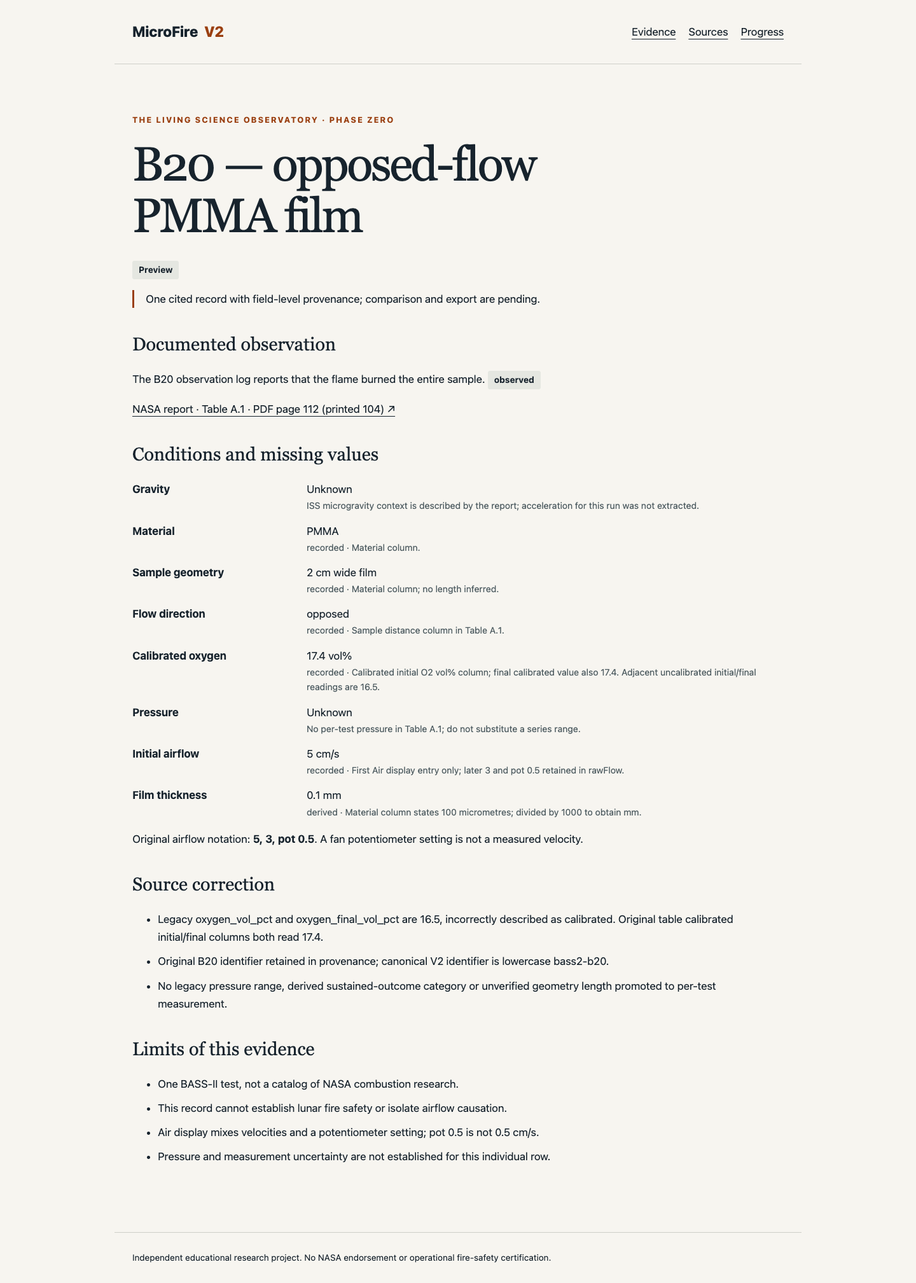
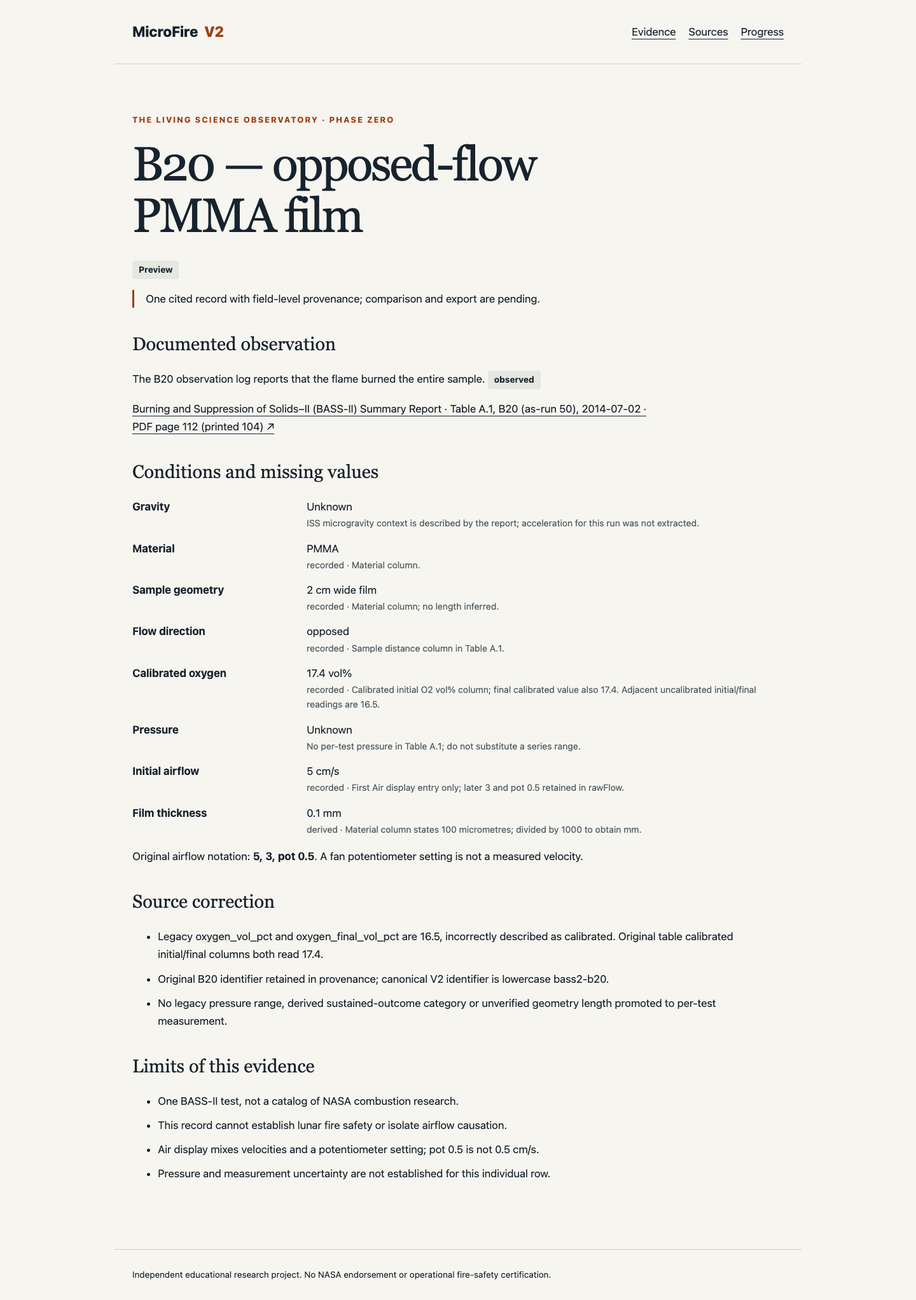
fix: review Phase Zero contracts and scientific boundaries

diff --git a/tests/e2e/foundation.spec.ts b/tests/e2e/foundation.spec.ts
@@ -14,7 +14,7 @@ test('offline source journey, keyboard access, corrected science and screenshots
   await page.getByRole('link', { name: 'B20 — opposed-flow PMMA film' }).click();
   await expect(page.getByRole('heading', { name: 'Documented observation' })).toBeVisible();
   await expect(page.getByText('17.4 vol%', { exact: false }).first()).toBeVisible();
-  await expect(page.getByRole('link', { name: /NASA report/ })).toHaveAttribute('href', /TM-20210011385.pdf#page=112$/);
+  await expect(page.getByRole('link', { name: /Table A\.1.*PDF page 112/ })).toHaveAttribute('href', /TM-20210011385.pdf#page=112$/);
   expect(await page.evaluate(() => document.documentElement.scrollWidth <= innerWidth)).toBe(true);
   await page.screenshot({ path: `docs/qa/screenshots/dossier-${info.project.name}.png`, fullPage: true });
   expect(errors).toEqual([]);
@@ -38,6 +38,14 @@ test('API contracts, errors and no-service fallback', async ({ request }) => {
   const ask = await request.post('/api/ask', { data: { question: 'Can this certify a lunar habitat?', targetConditions: {} } });
   expect(ask.status()).toBe(501);
   expect((await ask.json()).error.code).toBe('NOT_IMPLEMENTED');
+  expect((await request.post('/api/constructor', { data: {} })).status()).toBe(404);
+  const record = body.data.items[0];
+  const mismatchedPassport = { schemaVersion: 1, purpose: 'educational-research-record', entries: [{
+    id: 'mismatched-entry', missionId: 'station-arrival', experimentIds: [record.id], claimIds: [record.claims[0].id],
+    observationType: 'hypothesis', evidenceLevel: 'direct', conclusion: 'Learner note', citations: record.claims[0].citations,
+    limitations: record.limitations, corrections: [], setupRevision: null, status: 'current', scenario: 'research', createdAt: '2026-10-11T09:00:00Z'
+  }] };
+  expect((await request.post('/api/passport/validate', { data: mismatchedPassport })).status()).toBe(400);
   const passport = await request.post('/api/passport/validate', { data: { schemaVersion: 1, purpose: 'educational-research-record', entries: [] } });
   expect((await passport.json()).data.certification).toBe(false);
   expect(response.headers()['x-content-type-options']).toBe('nosniff');

diff --git a/tests/unit/contracts.test.ts b/tests/unit/contracts.test.ts
@@ -1,6 +1,6 @@
 import { describe, expect, it } from 'vitest';
 import { CatalogSchema, ClaimSchema, FeatureSchema, PassportSchema, features, resolveFeature, missionDefinitions, MissionIdSchema, PartIdSchema } from '@microfire/shared';
-import { catalog, validatePassport } from '@microfire/science';
+import { catalog, citationUrl, validatePassport } from '@microfire/science';
 import cells from '../../data/fixtures/b20-source-cells.json';
 
 const record = catalog.experiments[0]!;
@@ -45,6 +45,17 @@ describe('scientific trust boundaries', () => {
     expect(PassportSchema.safeParse({ ...passportExample, entries: [...passportExample.entries, ...passportExample.entries] }).success).toBe(false);
     expect(PassportSchema.safeParse({ ...passportExample, entries: [{ ...passportExample.entries[0], missionId: 'lunar-habitat', scenario: 'fictional-scenario' }] }).success).toBe(false);
   });
+  it('does not let an entry relabel the epistemic type of its supporting claim', () => {
+    const wrongType = structuredClone(passportExample);
+    wrongType.entries[0]!.observationType = 'hypothesis';
+    expect(() => validatePassport(wrongType)).toThrow('observation type');
+  });
+  it('resolves the catalog source and supplied PDF locator without inventing a URL', () => {
+    const source = catalog.sources[0]!;
+    expect(citationUrl(source.id)).toBe(source.url);
+    expect(citationUrl(source.id, 112)).toBe(`${source.documentUrl}#page=112`);
+    expect(() => citationUrl('invented-source', 112)).toThrow('Unknown source');
+  });
 });
 describe('feature gates and mission interfaces', () => {
   it('covers five distinct missions and ten stable parts', () => {
@@ -66,5 +77,8 @@ describe('feature gates and mission interfaces', () => {
     expect(resolveFeature(built, []).state).toBe('locked');
     expect(resolveFeature(built, ['station-arrival']).state).toBe('available');
     expect(resolveFeature(features.find((f) => f.state === 'blocked')!, []).state).toBe('blocked');
+  });
+  it('rejects an unimplemented feature labelled Preview', () => {
+    expect(FeatureSchema.safeParse({ ...features[0], state: 'preview', implemented: false }).success).toBe(false);
   });
 });

diff --git a/apps/web/components/foundation.tsx b/apps/web/components/foundation.tsx
@@ -21,7 +21,13 @@ export function Foundation({ path }: { path: string }) {
     {path === '/atlas' && <><p>{catalog.experiments.length} audited fixture. Dataset {catalog.datasetVersion}. Bundled locally; no provider key required.</p>{catalog.experiments.map((e) => <article key={e.id}><h2><Link href={`/experiments/${e.id}`}>{e.title}</Link></h2><p>{e.claims[0]?.text}</p><p>{e.limitations[0]}</p></article>)}</>}
     {experiment && <>
       <h2>Documented observation</h2>{experiment.claims.map((claim) => <p key={claim.id}>{claim.text} <span className="badge">{claim.kind}</span></p>)}
-      <a href={citationUrl(experiment.sourceIds[0]!, 112)}>NASA report · Table A.1 · PDF page 112 (printed 104) ↗</a>
+      {experiment.claims.flatMap((claim) => claim.citations).map((citation, index) => {
+        const source = catalog.sources.find((item) => item.id === citation.sourceId)!;
+        const locator = citation.locator;
+        return <p key={`${citation.sourceId}-${index}`}><a href={citationUrl(citation.sourceId, locator.kind === 'pdf' ? locator.page : undefined)}>
+          {source.title} · {locator.section}{locator.kind === 'pdf' && ` · PDF page ${locator.page} (printed ${locator.printedPage})`} ↗
+        </a></p>;
+      })}
       <h2>Conditions and missing values</h2><dl>{Object.entries(experiment.conditions).map(([name, field]) => <div key={name} style={{ display: 'contents' }}><dt>{conditionLabels[name]}</dt><dd>{field.status === 'known' ? <>{field.value} {'unit' in field ? field.unit : ''}<small>{field.basis} · {field.note}</small></> : <>Unknown<small>{field.reason}</small></>}</dd></div>)}</dl>
       <p>Original airflow notation: <strong>{experiment.rawFlow}</strong>. A fan potentiometer setting is not a measured velocity.</p>
       <h2>Source correction</h2><ul>{experiment.provenance.corrections.map((c) => <li key={c}>{c}</li>)}</ul>

diff --git a/apps/web/lib/api.ts b/apps/web/lib/api.ts
@@ -65,10 +65,14 @@ export function createPostHandler(now: () => number = Date.now) {
   return async (path: string[], request: Request): Promise<Response> => {
     const route = path.join('/');
     const schemas: Record<string, z.ZodType> = { 'evidence/rank': RankRequestSchema, 'evidence/compare': CompareRequestSchema, ask: AskRequestSchema, 'passport/validate': PassportSchema };
-    const schema = schemas[route];
+    const schema = Object.hasOwn(schemas, route) ? schemas[route] : undefined;
     if (!schema) return apiError(404, 'NOT_FOUND', 'API route not found.');
     if (now() - windowStart >= 60_000) { windowStart = now(); requests = 0; }
-    if (++requests > 30) return apiError(429, 'RATE_LIMITED', 'Local request budget reached; retry after one minute.');
+    if (++requests > 30) {
+      const response = apiError(429, 'RATE_LIMITED', 'Local request budget reached; retry after the indicated delay.');
+      response.headers.set('Retry-After', String(Math.max(1, Math.ceil((windowStart + 60_000 - now()) / 1000))));
+      return response;
+    }
     try {
       const body = await readJson(request);
       const result = schema.safeParse(body);

diff --git a/tests/unit/api.test.ts b/tests/unit/api.test.ts
@@ -24,7 +24,14 @@ it('returns a truthful 501 for future science services, not fabricated answers',
 it('bounds repeated POST traffic and recovers after the window', async () => {
   let time = 100_000; const post = createPostHandler(() => time);
   for (let i = 0; i < 30; i++) await post(['ask'], request('{}'));
-  expect((await post(['ask'], request('{}'))).status).toBe(429);
+  const limited = await post(['ask'], request('{}'));
+  expect(limited.status).toBe(429);
+  expect(limited.headers.get('retry-after')).toBe('60');
   time += 60_000;
   expect((await post(['ask'], request('{}'))).status).toBe(400);
+});
+it.each(['constructor', 'toString', '__proto__'])('treats inherited object name %s as an unknown API route', async (path) => {
+  const response = await createPostHandler()([path], request('{}'));
+  expect(response.status).toBe(404);
+  expect(ApiErrorSchema.parse(await response.json()).error.code).toBe('NOT_FOUND');
 });

diff --git a/packages/science/src/index.ts b/packages/science/src/index.ts
@@ -10,6 +10,8 @@ export function validatePassport(input: unknown, dataset: Catalog = catalog): Pa
     if (experiments.some((e) => !e)) throw new Error('Unknown passport experiment');
     const claims = experiments.flatMap((e) => e?.claims ?? []);
     if (entry.claimIds.some((id) => !claims.some((c) => c.id === id))) throw new Error('Unknown passport claim');
+    if (claims.some((claim) => entry.claimIds.includes(claim.id) && claim.kind !== entry.observationType))
+      throw new Error('Passport observation type does not match the supporting claim');
     const supporting = claims.filter((c) => entry.claimIds.includes(c.id)).flatMap((c) => c.citations);
     const same = (a: unknown, b: unknown) => JSON.stringify(a) === JSON.stringify(b);
     if (entry.citations.some((citation) => !supporting.some((s) => same(s, citation))) ||

diff --git a/tests/unit/game.test.ts b/tests/unit/game.test.ts
@@ -35,7 +35,7 @@ describe('P0 state and save foundation', () => {
     expect(loadProgress(storage, 'normal', 'next-catalog').status).toBe('dataset-mismatch');
     const broken = { getItem() { throw Error('disabled'); }, setItem() { throw Error('quota'); } };
     expect(loadProgress(broken, 'normal', 'p0-bass-b20-v1').status).toBe('storage-unavailable');
-    expect(saveProgress(broken, initial()).ok).toBe(false);
+    expect(saveProgress(broken, initial())).toEqual({ ok: false, reason: 'storage-unavailable' });
     const quota = { getItem: () => null, setItem() { throw Error('quota'); } };
     expect(saveProgress(quota, initial())).toEqual({ ok: false, reason: 'storage-unavailable' });
   });

diff --git a/packages/game-core/src/index.ts b/packages/game-core/src/index.ts
@@ -46,6 +46,7 @@ export function saveProgress(storage: SaveStorage, state: GameState): { ok: bool
   const parsed = GameStateSchema.safeParse(state);
   if (!parsed.success) return { ok: false, reason: 'invalid-state' };
   const existing = loadProgress(storage, state.mode, state.datasetVersion);
+  if (existing.status === 'storage-unavailable') return { ok: false, reason: 'storage-unavailable' };
   if (!['loaded', 'empty'].includes(existing.status)) return { ok: false, reason: 'existing-save-needs-review' };
   const serialized = JSON.stringify(parsed.data);
   if (serialized.length > 500_000) return { ok: false, reason: 'invalid-state' };

diff --git a/packages/shared/src/features.ts b/packages/shared/src/features.ts
@@ -9,6 +9,8 @@ export const FeatureSchema = z.strictObject({
     unitTest: TextSchema, browserTest: TextSchema, screenshot: TextSchema, checkedAt: z.iso.datetime()
   }).nullable()
 }).superRefine((f, ctx) => {
+  if (f.state === 'preview' && !f.implemented)
+    ctx.addIssue({ code: 'custom', message: 'Preview requires implemented partial behavior' });
   if (['available', 'locked'].includes(f.state) && (!f.implemented || !f.verification))
     ctx.addIssue({ code: 'custom', message: 'Available/Locked require implemented, browser-verified behavior' });
   if (f.state === 'locked' && !f.prerequisites.length)

diff --git a/docs/PHASE_ZERO_ACCEPTANCE.md b/docs/PHASE_ZERO_ACCEPTANCE.md
@@ -1,0 +1,87 @@
+# Phase Zero acceptance and integration review — 2026-10-11
+
+**Final verdict: READY for the local Phase One contract baseline.** No critical integration or scientific-integrity blocker remains in the accepted one-record foundation. Public release is still blocked, and quarantined legacy claims remain blocked. READY does not mean search/ranking/AI, gameplay, asset rights or public security readiness have been completed.
+
+Original reviewed commit: `a7fb5981d9f5ea911b9d45522889b2a7e7fd487e`. Acceptance commit: the local commit adding this document and the reviewed fixes; obtain its exact SHA with `git log -1 --format=%H` immediately after this handoff, and match it to the final chat before starting another branch. Later commits do not inherit this verdict automatically.
+
+Repository: `/Volumes/ssd(mac)2/NASA SPACE APP CHALLENGE 2026/untitled folder 3/MicroFire-V2`. Sole origin: `https://github.com/A-K-M-Asifuzzaman/MicroFire-V2.git`. Branch: `feat/phase-zero-contracts`. Review started from a clean working tree, one root commit and one worktree; no local main or remote-tracking branch existed. No push, merge, deployment, paid call or write to MicroFire-Atlas/Exovisionaries occurred. This review did not create Phase One worktrees or delegate implementation.
+
+## Acceptance criteria
+
+Status refers to the final reviewed state; failures found at the original baseline are recorded separately below.
+
+| ID | Criterion | Result | Evidence / boundary |
+|---|---|---|---|
+| 1 | Correct cwd, branch, commits, dirty status and sole remote | PASS | Verified local Git metadata before edits; initial checkout clean at a7fb598 on the feature branch |
+| 2a | Actual 139 original files accounted for | PASS | git ls-files count matches CHANGED_FILES.md without omissions; code/tests/config/data/docs inspected, lockfile structurally reviewed and freshly installed/audited, binary assets compared to supplied pack |
+| 2b | Exported API/science/game schemas usable by Claude | PASS | API v1 and all success/error schemas reviewed; consumption/units/IDs/page indexing/persistence semantics clarified in API_CONTRACTS.md; no DTO-shape change or architecture replacement |
+| 2c | Source/claim lineage preserves epistemic kinds | PASS | Supporting claim kind must match Passport observationType; negative test and HTTP rejection verified. Free-text entailment/applicability/completion are explicitly outside validation |
+| 3a | Clean lockfile installation | PASS | npm ci exit 0 on Node 24.19.0; 200 packages installed, 205 audited. Lockfile and package versions unchanged |
+| 3b | Lint | PASS | npm run lint, zero warnings |
+| 3c | Strict TypeScript and Next route types | PASS | npm run typecheck, root and apps/web pass |
+| 3d | Unit tests | PASS | npm test, 25 tests across 3 files pass, including new regressions |
+| 3e | Production build | PASS | npm run build, Next 16.4.0 webpack production build passes after fresh install |
+| 3f | Browser foundation | PASS | 8 production Chromium tests across desktop 1440×900 and mobile 390×844; source journey, all advertised routes, disabled missions, no-JS evidence, API regressions and screenshots |
+| 4a | No included credential values detected | PASS | Basic repo scan plus line-bounded named-provider assignments/private-key/token-prefix review found none. Only tracked env file is the empty .env.example; no provider-key names in .next/static client bundles |
+| 4b | No unapproved runtime asset imports | PASS | No public runtime media, GLB/GLTF/FBX/Blend/video/audio/PDF/archive files. Twenty-two concept images byte-match the supplied pack; four other images are QA captures |
+| 4c | Complete entropy/history secret audit and production media-license approval | NOT TESTED | No gitleaks/trufflehog installed or comprehensive entropy scan; supplied concept distribution rights and future media require separate approval. Current images are documentation-only |
+| 5 | Available / Preview / Coming Soon / Blocked distinction | PASS | Current registry: 0 Available, 7 Preview, 13 Coming Soon, 1 Blocked, 0 Locked. Preview now requires partial implementation; Available/Locked require verification; incomplete missions never unlock from progress |
+| 6 | Fixture cannot be presented as full coverage | PASS | Atlas, dossier limitations, methodology, README and provenance explicitly disclose one-record scope. API list total is only the filtered bundled dataset; consumer rules forbid worldwide-count inference |
+| 7a | Selected calibration discrepancy source verification | PASS | B20 original PDF/hash rechecked; B16/B19 calibrated columns also visually/textually inspected. LEGACY_CALIBRATION_AUDIT.md records exact values/locators and blocked claims |
+| 7b | Unreviewed legacy claims remain contained | PASS | Only the corrected B20 fixture is imported. Other 55 rows remain absent/quarantined; no ingestion/network adapter. Ranking/compare/Ask return 501; B16/B19 are absent from the GET catalog |
+| 7c | Independent scientific review / full 56-row calibration and derived-label audit | NOT TESTED | Required before promoting quarantined records or making scientific applicability claims; candidate annotations are not verified error counts |
+| 8a | Public-facing API validation/error/resource foundations | PASS | Strict DTOs, unsafe URL scheme rejection, bounded streamed JSON, invalid-media/JSON/size tests, inherited-route 404, safe errors, 30 POST/minute process budget and Retry-After recovery |
+| 8b | Secrets, XSS/SSRF and provider isolation boundaries | PASS | React escapes text; no HTML injection, uploads, external fetch or provider adapters; server-only API module and response headers reviewed. No runtime source text is executed |
+| 8c | Public-scale security hardening | NOT TESTED | Distributed/per-user quotas, slow-body/host timeouts, strict nonce/hash CSP, comprehensive secret scanning and immutable CI-action pins remain release gates |
+| 9 | Acceptance report with truthful outcomes and unresolved issues | PASS | This report, calibration ledger and stable-contract/ownership references are included in the local review commit |
+| 10 | Only genuine Phase Zero defects fixed | PASS | Narrow invariant/dispatch/persistence/source-link corrections with regressions; existing stack, lockfile, DTO shapes, dataset and feature states preserved |
+| 11 | Reviewed work committed locally without publishing | PASS | Acceptance changes committed on feat/phase-zero-contracts; exact SHA in final handoff. No push/merge/deployment/purchase |
+| Extra | Remote GitHub CI / Linux runner execution | NOT TESTED | CI config reviewed; remote execution requires an authorized push, which this request prohibits |
+| Extra | Cross-browser, real devices, full accessibility/performance/game acceptance | NOT TESTED | Existing foundation checks only; no Safari/Firefox/real-device, human user study, Web Vitals, 3D or full-game result claimed |
+
+## Reproduced defects and minimal fixes
+
+1. **Passport classification integrity (High at baseline):** a valid claim/citation could be relabelled with a different observationType. New regression failed before the change; science validation now requires matching catalog epistemic kinds. Learner conclusions remain notes, not validated scientific findings.
+2. **API dispatch correctness (Medium):** POST constructor/toString/__proto__ looked up inherited properties and returned 500. Three regressions reproduced it; own-property lookup now returns the documented JSON 404.
+3. **Feature honesty (Medium):** FeatureSchema accepted Preview with implemented=false. Regression reproduced it; schema now rejects that contradiction. Registry state counts did not change.
+4. **Save error contract (Medium):** unreadable storage was reported as existing-save-needs-review, which could mislead UI recovery. A stronger existing test reproduced it; read failures now return storage-unavailable and never prompt data deletion.
+5. **Source-link integration (High when expanding the catalog):** dossier used a fixed page 112/source label instead of its citation DTO. It now consumes the cited source, locator section, physical/printed page and canonical URL. The B20 citation remains correct; screenshots/browser assertion reflect the actual source link.
+6. **Rate-limit integration clarity (Low):** 429 now includes an explicit Retry-After delay, tested with window recovery. No distributed limiter or paid service was added.
+
+No data value, dependency, app structure or available feature was introduced. Five new unit cases increased the original 19-test suite to 24; one source-URL check brings the final total to 25. Existing storage and browser cases were strengthened, not skipped. Historical PHASE_ZERO_REPORT.md and RELEASE_SCORECARD.md counts remain labelled as the original baseline rather than rewritten as new evidence.
+
+## Commands and actual results
+
+All Node/npm checks used the already-installed bundled Node 24.19.0 by prepending its bin directory to PATH; no machine-wide installation/config change. NEXT_TELEMETRY_DISABLED=1 was used for install/build/browser verification. Browser binaries were the previously approved repository-local Chromium cache.
+
+| Command | Exit | Actual result |
+|---|---|---|
+| npm ci | 0 | Fresh install succeeded; 0 vulnerabilities in install audit |
+| npm ls --all | 0 | Dependency/workspace tree resolves without missing/invalid peers |
+| npm run check | 0 | Lint, root/Next typecheck, 25 unit tests, fixture hash/schema check, basic security scan and production build pass |
+| npm audit --audit-level=high | 0 | 0 vulnerabilities reported |
+| PLAYWRIGHT_BROWSERS_PATH=./.cache/ms-playwright npm run test:e2e | 0 | 8 desktop/mobile production-browser tests pass |
+| git diff --check / staged whitespace check | 0 | No whitespace errors before local commit |
+
+The first elevated npm ci attempt was **not executed** because automatic approval review reported a usage-limit failure. Work continued locally; after the reported 19:21 Asia/Dhaka reset time passed, the same installation was retried through approval, accepted and passed. That temporary tooling failure is resolved and is not an unreported installation pass.
+
+npm warned that esbuild/fsevents lifecycle scripts are not covered by its allowScripts configuration; installation, tests, types and production build nevertheless completed successfully. No broad lifecycle-script approval or force update was applied. Basic/expanded scans are useful evidence, not proof of exhaustive secret absence.
+
+## Remaining issues and severity
+
+| Issue | Severity / gate | Why READY is still limited to Phase Zero |
+|---|---|---|
+| Fifty-five legacy rows, including B16/B19, lack complete accepted source review; 24 remaining calibrated-column annotations are review candidates | High — blocks data promotion and comparisons/model labels relying on them | They are not in the runtime catalog and no service publishes those comparisons. P1 must clear each record's gate, not import wholesale |
+| Global process-only POST budget, reset across workers; GETs lack app throttling; CSP permits inline hydration/styles | Medium — blocks public/paid-service release hardening | Local no-key foundation has no uploads, external fetch, paid requests or side effects; quotas/strict CSP must precede public exposure |
+| Free-text conclusions/evidence applicability and client progress are not authenticated scientific/game achievements | Medium — blocks claims of certification or protected completion | Response scope and UI/docs make this explicit; gameplay/completion is unavailable |
+| P2 full assembly placements/predictions/decision persistence is not in the inspection-only v1 state | Medium — future game integration gate | P1 science/UI may use the current DTOs; P2 needs reviewed state evolution and a tested migration rather than silently extending v1 |
+| Concept-image distribution rights, future NASA media and scientific geometry need review | Medium — asset/publication gate | No such assets are served/imported in the app. Pack images are reference documentation only |
+| Remote CI, real-browser/device matrix, complete secret scanning, full WCAG, performance and independent human science review | Low for local P0; required later acceptance evidence | Marked NOT TESTED; no public-readiness/performance/impact claim |
+
+**Critical unresolved Phase Zero blockers: none.** Retained High data gates are contained, explicit and enforceable by catalog absence, not hidden behind the READY label.
+
+## Stable handoff and safe next step
+
+Read `docs/API_CONTRACTS.md`, `packages/shared/src/{api,science,features,game,index}.ts`, `docs/OWNERSHIP.md`, `docs/LEGACY_CALIBRATION_AUDIT.md`, `docs/DATA_PROVENANCE.md`, `data/migration/provenance-manifest.md` and `SECURITY.md` before implementing P1. Shared schemas, feature promotion, config/lockfile and E2E changes remain coordinated review areas. Codex's API ownership overrides Claude's broader app/page ownership.
+
+After owner acceptance and explicit Phase One authorization, follow OWNERSHIP.md's local worktree commands using the **exact acceptance SHA** as both branches' common base. No main merge/pull or remote write is needed to prepare those local branches. Run npm ci/check independently in each, use separate dev ports, and run E2E sequentially on 3217. Keep all quarantined rows and unfinished features gated. No worktree was created and no Phase One implementation was started by this review.

diff --git a/docs/API_CONTRACTS.md b/docs/API_CONTRACTS.md
@@ -45,7 +45,30 @@ Actual P0 response:
 {"apiVersion":"1","error":{"code":"NOT_IMPLEMENTED","message":"This Phase One service is not implemented. No provider was called.","retryable":false}}
 ```
 
-All errors follow ApiErrorSchema. POST accepts application/json, limits streamed body size to 32 KiB, and applies a process-wide 30 request/minute budget. It is an abuse foundation, not distributed per-user protection. No visitor identity or proxy IP is collected. Unknown API paths return JSON 404; unsupported HTTP methods use framework 405 responses (not the JSON envelope).
+All application errors follow ApiErrorSchema. POST accepts application/json, limits streamed body size to 32 KiB, and applies a process-wide 30 request/minute budget. HTTP 429 includes `Retry-After` in whole seconds and `retryable: true`; wait that delay rather than repeatedly resubmitting. It is an abuse foundation, not distributed per-user protection. No visitor identity or proxy IP is collected. Unknown API paths, including names such as `constructor`, return JSON 404; unsupported HTTP methods use framework 405 responses (not the JSON envelope).
+
+## Claude consumption rules (acceptance review)
+
+- Parse successful responses with the endpoint's exported response schema, and application error bodies with ApiErrorSchema. Branch on HTTP status first. 501 means the feature is unimplemented; it is not an abstaining AI answer. Requests may receive framework/proxy errors outside the JSON contract, so handle a failed JSON parse gracefully.
+- GET list `total` counts matching records in the current bundled dataset before pagination. It is not the number of NASA experiments worldwide. Current coverage is exactly one fixture (`p0-bass-b20-v1`); record limitations and Preview labels must remain visible even if a list/API call succeeds. An empty filtered page does not establish absence of evidence globally.
+- Stable IDs are lowercase/hyphenated. Use `bass2-b20`, not legacy `bass2-B20`. PDF `page` is one-based physical PDF position; `printedPage` is the report's printed label, not an alternate URL page number.
+- Numeric query targets use vol% oxygen, absolute kPa pressure and cm/s airflow; no fraction or atm conversion is implied. P0 B20 oxygen is calibrated initial oxygen; flowCmS is the first logged airflow, not constant airflow. A later source with different oxygen basis must disclose it explicitly. Target categorical strings have no ontology/tolerance/ranking formula yet; P1 must agree those semantics before implementing science matching.
+- Times are UTC ISO strings accepted by the schemas; use `new Date().toISOString()`. Persisted save version and datasetVersion are separate compatibility checks. A TypeScript cast alone is not validation.
+- Schema array limits are ceilings, not promises about payload size. A valid-shape Passport can still exceed the 32 KiB HTTP limit or 500,000-character save limit. Preserve the user's data and surface the error; do not silently drop entries.
+
+```ts
+import { ApiErrorSchema, ExperimentsResponseSchema } from '@microfire/shared';
+
+const response = await fetch('/api/experiments?limit=20');
+const payload: unknown = await response.json(); // Catch transport/non-JSON errors in the UI.
+if (response.ok) {
+  const { data } = ExperimentsResponseSchema.parse(payload); // Inferred result type.
+  // Render data.items with their limitations and current feature status.
+} else {
+  const { error } = ApiErrorSchema.parse(payload);
+  // Show error.message; a retry requires error.retryable and any Retry-After delay.
+}
+```
 
 ## Science contracts
 
@@ -63,6 +86,10 @@ Claims distinguish observed, derived, interpretation, hypothesis, unknown and re
 
 `GameStateSchema` v1 includes dataset version, mode, guidance, active/completed missions, inspected evidence, setup revision and passport. Completion must be a contiguous mission prefix with current passport entries; stale setup qualifications/current entries are invalid. `PassportEntrySchema` records mission, experiments, claims, citations, observation type, evidence level, learner conclusion, correction history, limitations, setup revision and scenario origin. V1's fictional lunar mission cannot award direct lunar evidence. Future genuine lunar evidence requires reviewed scenario/contract evolution rather than relaxing the label silently.
 
+`observationType` is the epistemic kind of the supporting catalog claim(s), not the player's opinion about them. All claimIds in one entry must share that kind; validation now rejects a mismatch. Use separate entries for distinct kinds. `conclusion` and correction prose remain unverified learner notes; `scenario` identifies the mission context, while research origin belongs to the cited catalog claim. An entry may cite a research observation within the fictional lunar scenario, but cannot label it direct lunar evidence. Evidence applicability, entailment of free text, and actual mission completion are still outside this structural/lineage validator.
+
 `createGameState`, `loadProgress`, `saveProgress` take explicit dependencies; no browser/Three.js import. Pass localStorage through the SaveStorage interface. Normal/demo use separate keys. One atomic setItem writes a whole snapshot. Corrupt, unsupported-version or dataset-mismatched saves remain untouched; caller must offer export/review/reset instead of silently overwriting. V1 is the first format; no fictitious legacy migration is claimed. A future version must ship a pure tested migration. Multi-tab conflict resolution and server sync are deferred. Client data is editable and not an anti-cheat authority.
+
+`saveProgress` returns storage-unavailable for either read or write failure, invalid-state for invalid/oversized input, and existing-save-needs-review for corrupt/unsupported/mismatched existing data. A storage access failure must not prompt deletion or a fake successful save. `transition` expects a validated state and throws on invalid state/timestamp; action failures use TransitionResult. Handle load/parse errors before dispatch. Existing v1 state supports inspection only; P2 assembly placements, predictions and full decision history will require an explicitly versioned, reviewed state extension/migration before implementation.
 
 Claude should consume typed actions/results identically in 3D and keyboard/2D views. Research must render without WebGL/AI. Do not add Three.js until P2 needs it; missing GLB must never block the future 2D interaction path.

diff --git a/docs/LEGACY_CALIBRATION_AUDIT.md b/docs/LEGACY_CALIBRATION_AUDIT.md
@@ -1,0 +1,36 @@
+# Legacy calibration audit — acceptance review, 2026-10-11
+
+Scope: the **pinned** MicroFire-Atlas data snapshot at `acb9aaa69486154da657c61469d3a1886e4c12b1`, not the latest unpinned upstream branch. Reference files were read from the temporary Phase Zero snapshot; no reference checkout, scripts, credentials or writes were used.
+
[1 lines of base64/hex data omitted]
+
+Primary authority: [NASA NTRS 20210011385](https://ntrs.nasa.gov/citations/20210011385), [Table A.1, PDF page 111 / printed 103](https://ntrs.nasa.gov/api/citations/20210011385/downloads/TM-20210011385.pdf#page=111) and [PDF page 112 / printed 104](https://ntrs.nasa.gov/api/citations/20210011385/downloads/TM-20210011385.pdf#page=112).
+
+| Legacy test | Legacy initial/final O2 vol% | Original calibrated initial/final columns | Status in V2 |
+|---|---|---|---|
+| B16, as-run 51, page 111 | 16.5 / 16.4, labelled calibrated | 17.3 / 17.2 | BLOCKED for import; calibration mismatch confirmed, full record review pending |
+| B19, as-run 52, page 112 | 16.4 / 16.3, labelled calibrated | 17.3 / 17.2 | BLOCKED for import; calibration mismatch confirmed, full record review pending |
+| B20, as-run 50, page 112 | 16.5 / 16.5, labelled calibrated | 17.4 / 17.4 | Corrected fixture only; other fields remain limited to the audited subset |
+
+The legacy values above appear in adjacent initial/final columns rather than the columns headed calibrated O2. Do not apply a universal numeric offset: reported offsets and missingness vary by row and procedure. This audit confirms column transcription differences, not the independent accuracy of the instruments or NASA's calibration model.
+
+## Quarantine inventory
+
+The pinned file has 56 candidate BASS-II rows. Twenty-five rows annotate their oxygen value as from a calibrated column: B1–B22 (22, Table A.1) and F1–F3 (3, Table A.2). This is a **review-candidate count, not a count of proven errors**. B20 is corrected in V2; the other 24 annotated candidates require row/header verification, as do the other 31 rows whose calibration basis is not established by that annotation. All 55 rows absent from the fixture stay quarantined. No Saffire/LUCI/findings/media content was imported during acceptance.
+
+## Claims that must remain blocked
+
+| Claim or action | Gate / reason |
+|---|---|
+| Present legacy B16/B19 oxygen values as calibrated | Confirmed source-column mismatch; must correct values and retain the correction ledger before import |
+| Import a full legacy catalog or advertise 56 verified V2 experiments | Only one runtime record has an accepted source trace; candidate inventory is not scientific verification |
+| Call B16/B20/B19 a controlled experiment with identical oxygen and only airflow changing | Their calibrated initial values are not identical, flow changes during runs, and other setup/procedure differences must be reviewed |
+| Convert fan potentiometer values (pot 0.4, 0.5 or 6.0) to velocities | No reviewed calibration supports that conversion; retain raw notation instead |
+| Promote a series pressure range to an individual test reading | Per-test pressure has not been established in the accepted fixture |
+| Use legacy-derived sustained/quench/blowoff categories as verified labels for ranking, model training or gameplay | Reconcile the original observations, endpoint definitions, procedure and corrected conditions first; an authored outcome code is not a new NASA measurement |
+| Claim matched lunar/Martian evidence, safety probabilities or certified operational recommendations | Not supported by the accepted one-record corpus; the fictional lunar mission remains Coming Soon and cannot award direct lunar evidence |
+| Reuse unreviewed NASA/third-party footage or model dimensions as evidence | Requires experiment identity, source locator and rights/geometry verification, independent of calibration fixes |
+
+Runtime containment: the catalog imports only data/fixtures/catalog.json. There is no upstream loader, ingestion scheduler or provider call. GET requests for bass2-b16/bass2-b19 do not resolve; rank/compare/Ask services return 501 rather than publishing those claims. The migration manifest's per-record review gate remains in force. A future dataset update must add original source cells, corrections, missingness, terms and tests in a reviewed V2-only commit and change datasetVersion; never patch the reference repository.
+
+Independent human scientific review and full-corpus calibration/endpoint evaluation remain **NOT TESTED**. That is a data-promotion gate, not permission to treat the legacy candidates as verified during Phase One.
